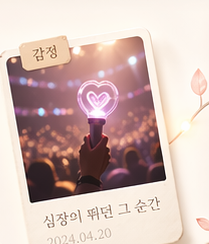
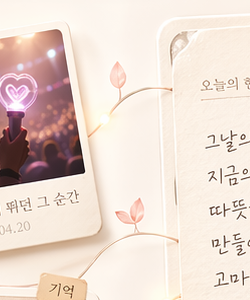
fix: fine-tune scrapbook slices for exact pixel alignment

diff --git a/scrapbook-demo/style.css b/scrapbook-demo/style.css
@@ -14,18 +14,18 @@ body {
     font-family: 'Pretendard', sans-serif;
 }
 
-/* 전체 컨테이너: 원본 이미지 비율 유지 (16:9) */
+/* 전체 컨테이너: 실제 이미지 비율 유지 (1672:941) */
 .scrapbook-container {
     position: relative;
-    width: 90vw;
-    aspect-ratio: 1920 / 1080;
+    width: 95vw;
+    aspect-ratio: 1672 / 941;
     background-color: #fff;
     box-shadow: 0 20px 50px rgba(0,0,0,0.1);
     border-radius: 10px;
     overflow: hidden;
 }
 
-/* 원본 이미지를 배경으로 깔아둠 (조각들과 정확히 일치하도록) */
+/* 원본 이미지를 배경으로 깔아둠 */
 .base-background {
     position: absolute;
     top: 0;
@@ -33,16 +33,16 @@ body {
     width: 100%;
     height: 100%;
     background-image: url('home.png');
-    background-size: cover;
-    opacity: 0.3; /* 조각들이 돋보이게 배경은 흐리게 처리 */
-    filter: blur(5px);
+    background-size: 100% 100%;
+    opacity: 0.15; /* 조각들이 잘 맞는지 확인하기 위해 투명도를 낮춤 */
+    filter: blur(4px);
 }
 
 /* 각 조각 공통 스타일 */
 .piece {
     position: absolute;
     cursor: pointer;
-    transition: all 0.4s cubic-bezier(0.175, 0.885, 0.32, 1.275);
+    transition: all 0.3s ease;
     z-index: 10;
 }
 
@@ -54,32 +54,32 @@ body {
 
 /* 마우스 올렸을 때 효과 */
 .piece:hover {
-    transform: scale(1.05) translateY(-10px);
+    transform: scale(1.02) translateY(-3px);
     z-index: 100;
-    filter: drop-shadow(0 15px 30px rgba(0,0,0,0.2));
+    filter: drop-shadow(0 10px 20px rgba(0,0,0,0.15));
 }
 
-/* 각 조각 위치 좌표 (비율 % 단위로 계산) */
-.hero-text { top: 14.8%; left: 9.3%; width: 29.6%; }
-.card.heart { top: 12%; left: 40.6%; width: 12.5%; }
-.card.music { top: 13%; left: 54.1%; width: 21.3%; }
-.card.note { top: 38.8%; left: 44.7%; width: 9.8%; }
-.card.stage { top: 13%; left: 76.5%; width: 13%; }
-.card.sunset { top: 38%; left: 80.2%; width: 16.1%; }
-.info-area { top: 60.1%; left: 7.8%; width: 84.3%; }
-.list-area { top: 74%; left: 7.8%; width: 84.3%; }
+/* 정밀 수정된 위치 (1672x941 기준 % 계산) */
+.hero-text { top: 15.94%; left: 8.97%; width: 34.09%; }
+.card.heart { top: 12.75%; left: 45.45%; width: 14.95%; }
+.card.music { top: 13.82%; left: 61.6%; width: 23.92%; }
+.card.note { top: 43.57%; left: 50.24%; width: 11.36%; }
+.card.stage { top: 13.82%; left: 86.72%; width: 13.28%; }
+.card.sunset { top: 43.57%; left: 88.52%; width: 11.48%; }
+.info-area { top: 69.08%; left: 7.78%; width: 92.22%; }
+.list-area { top: 83.95%; left: 7.78%; width: 92.22%; }
 
 /* 툴팁 스타일 */
 .tooltip {
     position: absolute;
-    top: -40px;
+    top: -30px;
     left: 50%;
     transform: translateX(-50%);
-    background: #333;
+    background: rgba(0,0,0,0.7);
     color: #fff;
-    padding: 5px 12px;
-    border-radius: 20px;
-    font-size: 12px;
+    padding: 4px 10px;
+    border-radius: 4px;
+    font-size: 11px;
     opacity: 0;
     transition: opacity 0.3s;
     pointer-events: none;
@@ -88,9 +88,4 @@ body {
 
 .piece:hover .tooltip {
     opacity: 1;
-}
-
-/* 클릭 시 효과 */
-.piece:active {
-    transform: scale(0.95);
 }

diff --git a/scrapbook-demo/slice_image.py b/scrapbook-demo/slice_image.py
@@ -3,36 +3,43 @@ from PIL import Image
 
 def slice_mockup(image_path):
     if not os.path.exists(image_path):
-        print(f"Error: {image_path} 파일이 없습니다. 이미지를 해당 이름으로 저장해주세요.")
+        print(f"Error: {image_path} 파일이 없습니다.")
         return
 
     img = Image.open(image_path)
     width, height = img.size
     
-    # 이미지 사이즈에 맞게 좌표 비율 계산 (기준: 1920x1080)
-    def get_coords(x1, y1, x2, y2):
-        return (int(x1 * width / 1920), int(y1 * height / 1080), 
-                int(x2 * width / 1920), int(y2 * height / 1080))
+    # 이미지 실제 사이즈 기준 (1672 x 941)
+    base_w, base_h = 1672, 941
 
-    # 자를 영역 정의 (좌상단x, 좌상단y, 우하단x, 우하단y)
+    def get_coords(x1, y1, x2, y2):
+        return (int(x1 * width / base_w), int(y1 * height / base_h), 
+                int(x2 * width / base_w), int(y2 * height / base_h))
+
+    # 정밀 수정된 좌표 (1672x941 기준)
     sections = {
-        "hero-text": get_coords(180, 160, 750, 500),
-        "card-heart": get_coords(780, 130, 1020, 410),
-        "card-music": get_coords(1040, 140, 1450, 630),
-        "card-note": get_coords(860, 420, 1050, 620),
-        "card-stage": get_coords(1470, 140, 1720, 400),
-        "card-sunset": get_coords(1540, 410, 1850, 630),
-        "bottom-info": get_coords(150, 650, 1770, 780),
-        "bottom-list": get_coords(150, 800, 1770, 1000)
+        "hero-text": get_coords(150, 150, 720, 520),
+        "card-heart": get_coords(760, 120, 1010, 420),
+        "card-music": get_coords(1030, 130, 1430, 650),
+        "card-note": get_coords(840, 410, 1030, 630),
+        "card-stage": get_coords(1450, 130, 1672, 410),
+        "card-sunset": get_coords(1480, 410, 1672, 650),
+        "bottom-info": get_coords(130, 650, 1672, 780),
+        "bottom-list": get_coords(130, 790, 1672, 941)
     }
 
     if not os.path.exists('assets'):
         os.makedirs('assets')
 
     for name, box in sections.items():
-        section_img = img.crop(box)
+        left = max(0, box[0])
+        top = max(0, box[1])
+        right = min(width, box[2])
+        bottom = min(height, box[3])
+        
+        section_img = img.crop((left, top, right, bottom))
         section_img.save(f"assets/{name}.png")
-        print(f"Saved: assets/{name}.png")
+        print(f"Saved: assets/{name}.png at {left, top, right, bottom}")
 
 if __name__ == "__main__":
     slice_mockup("home.png")
